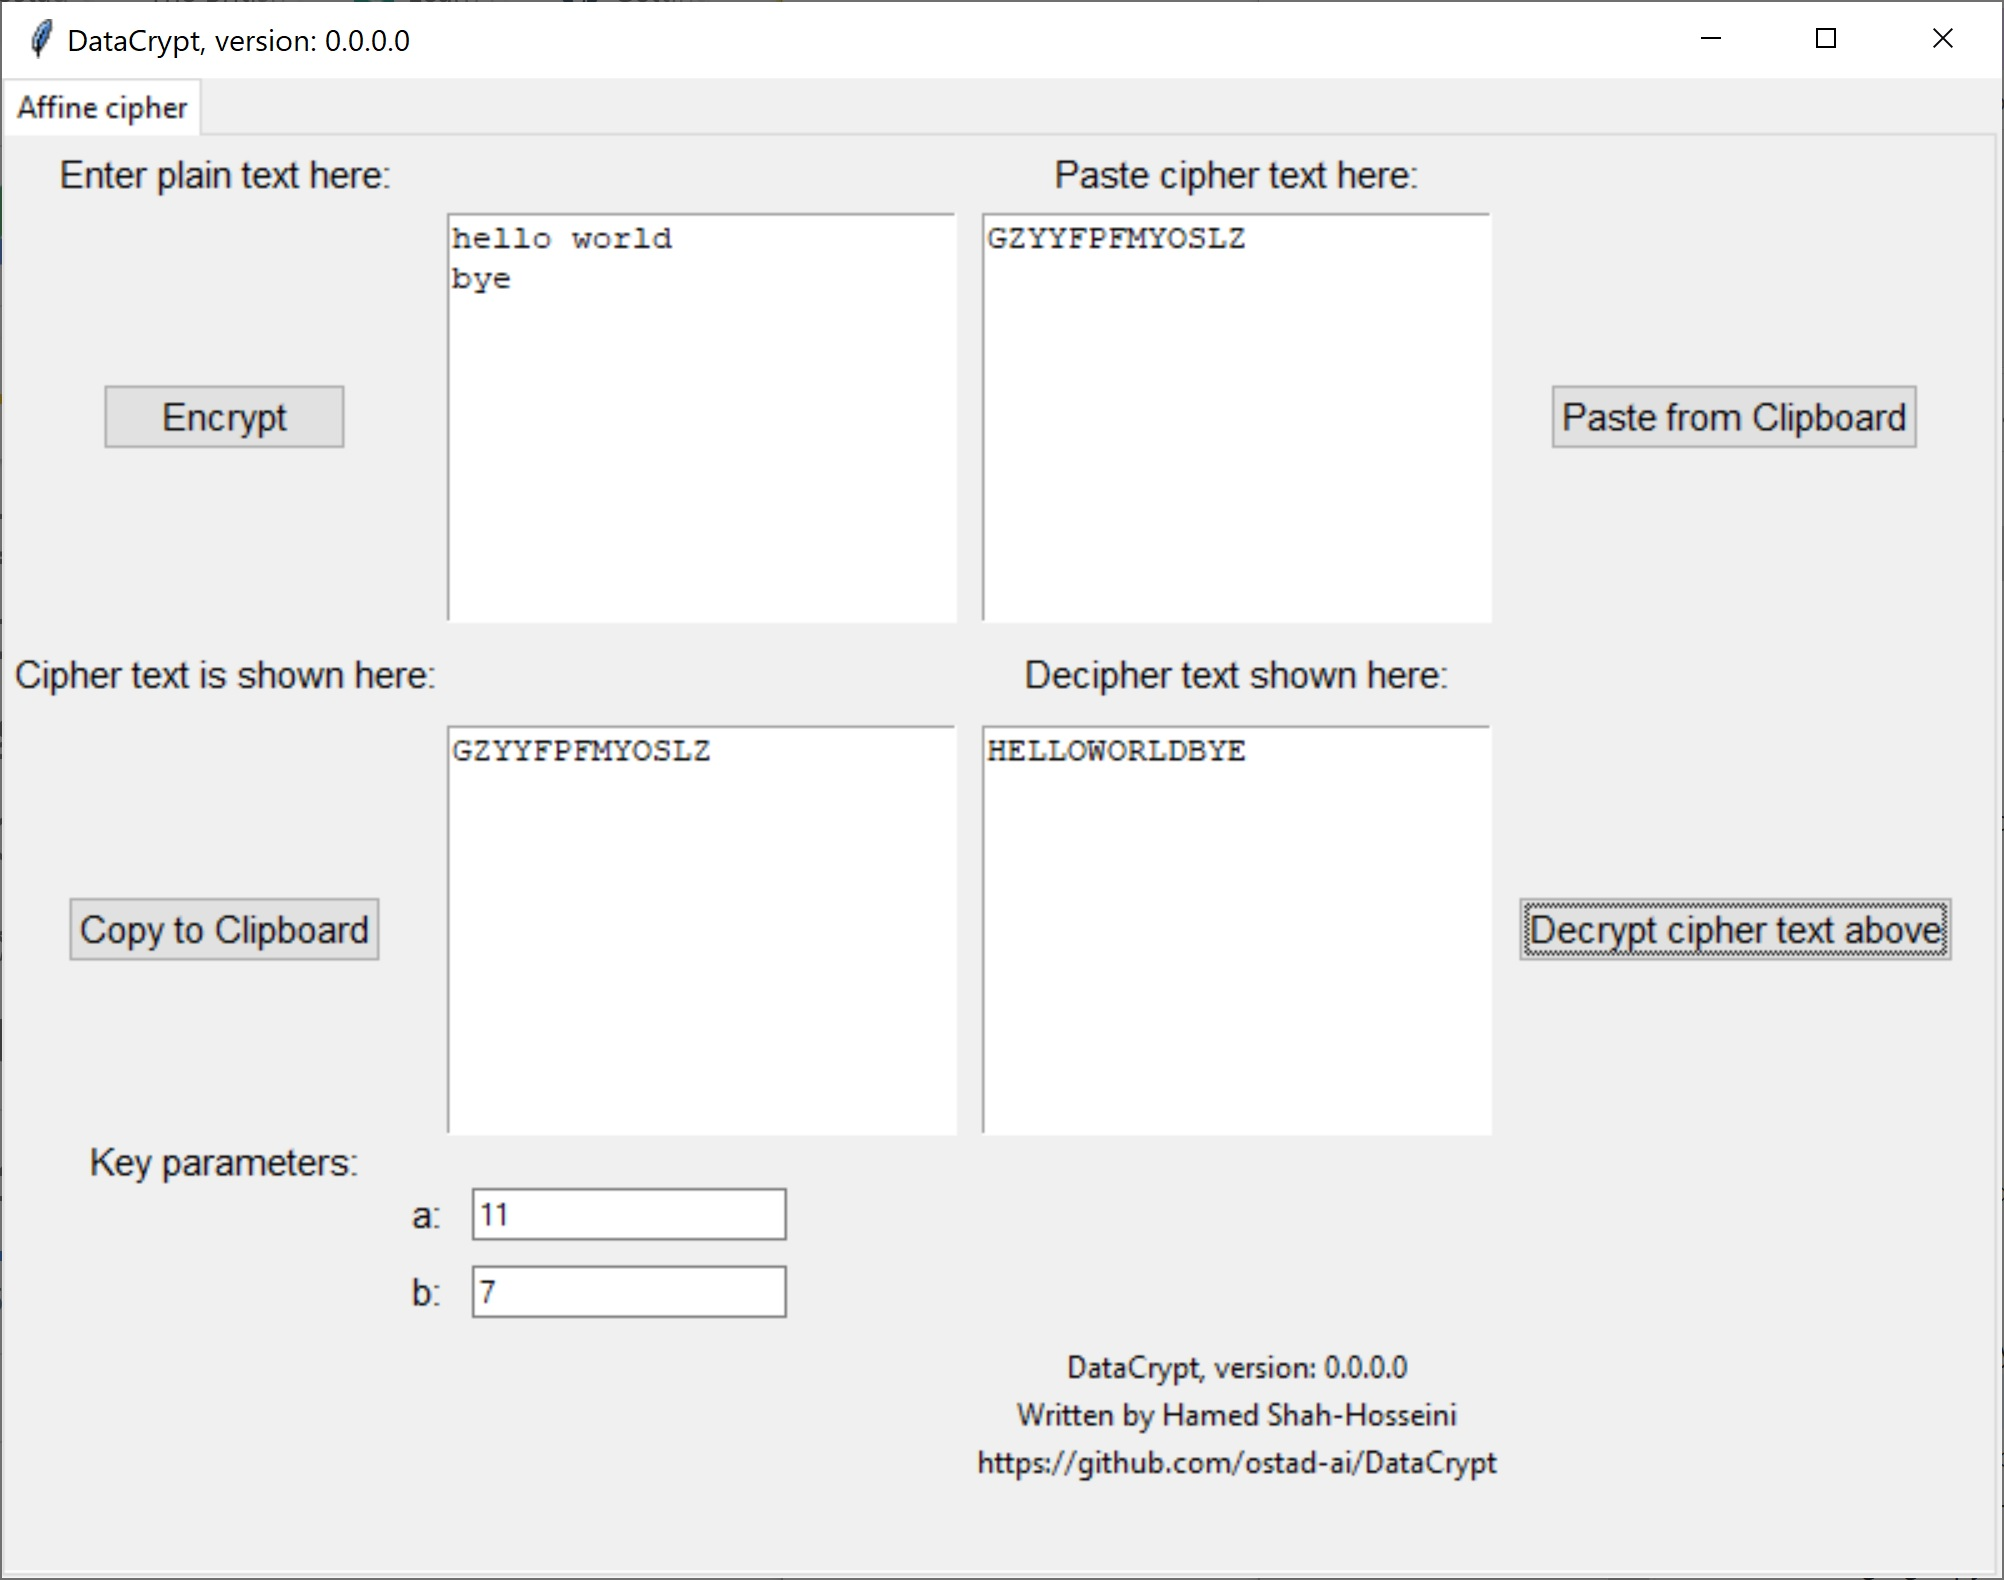
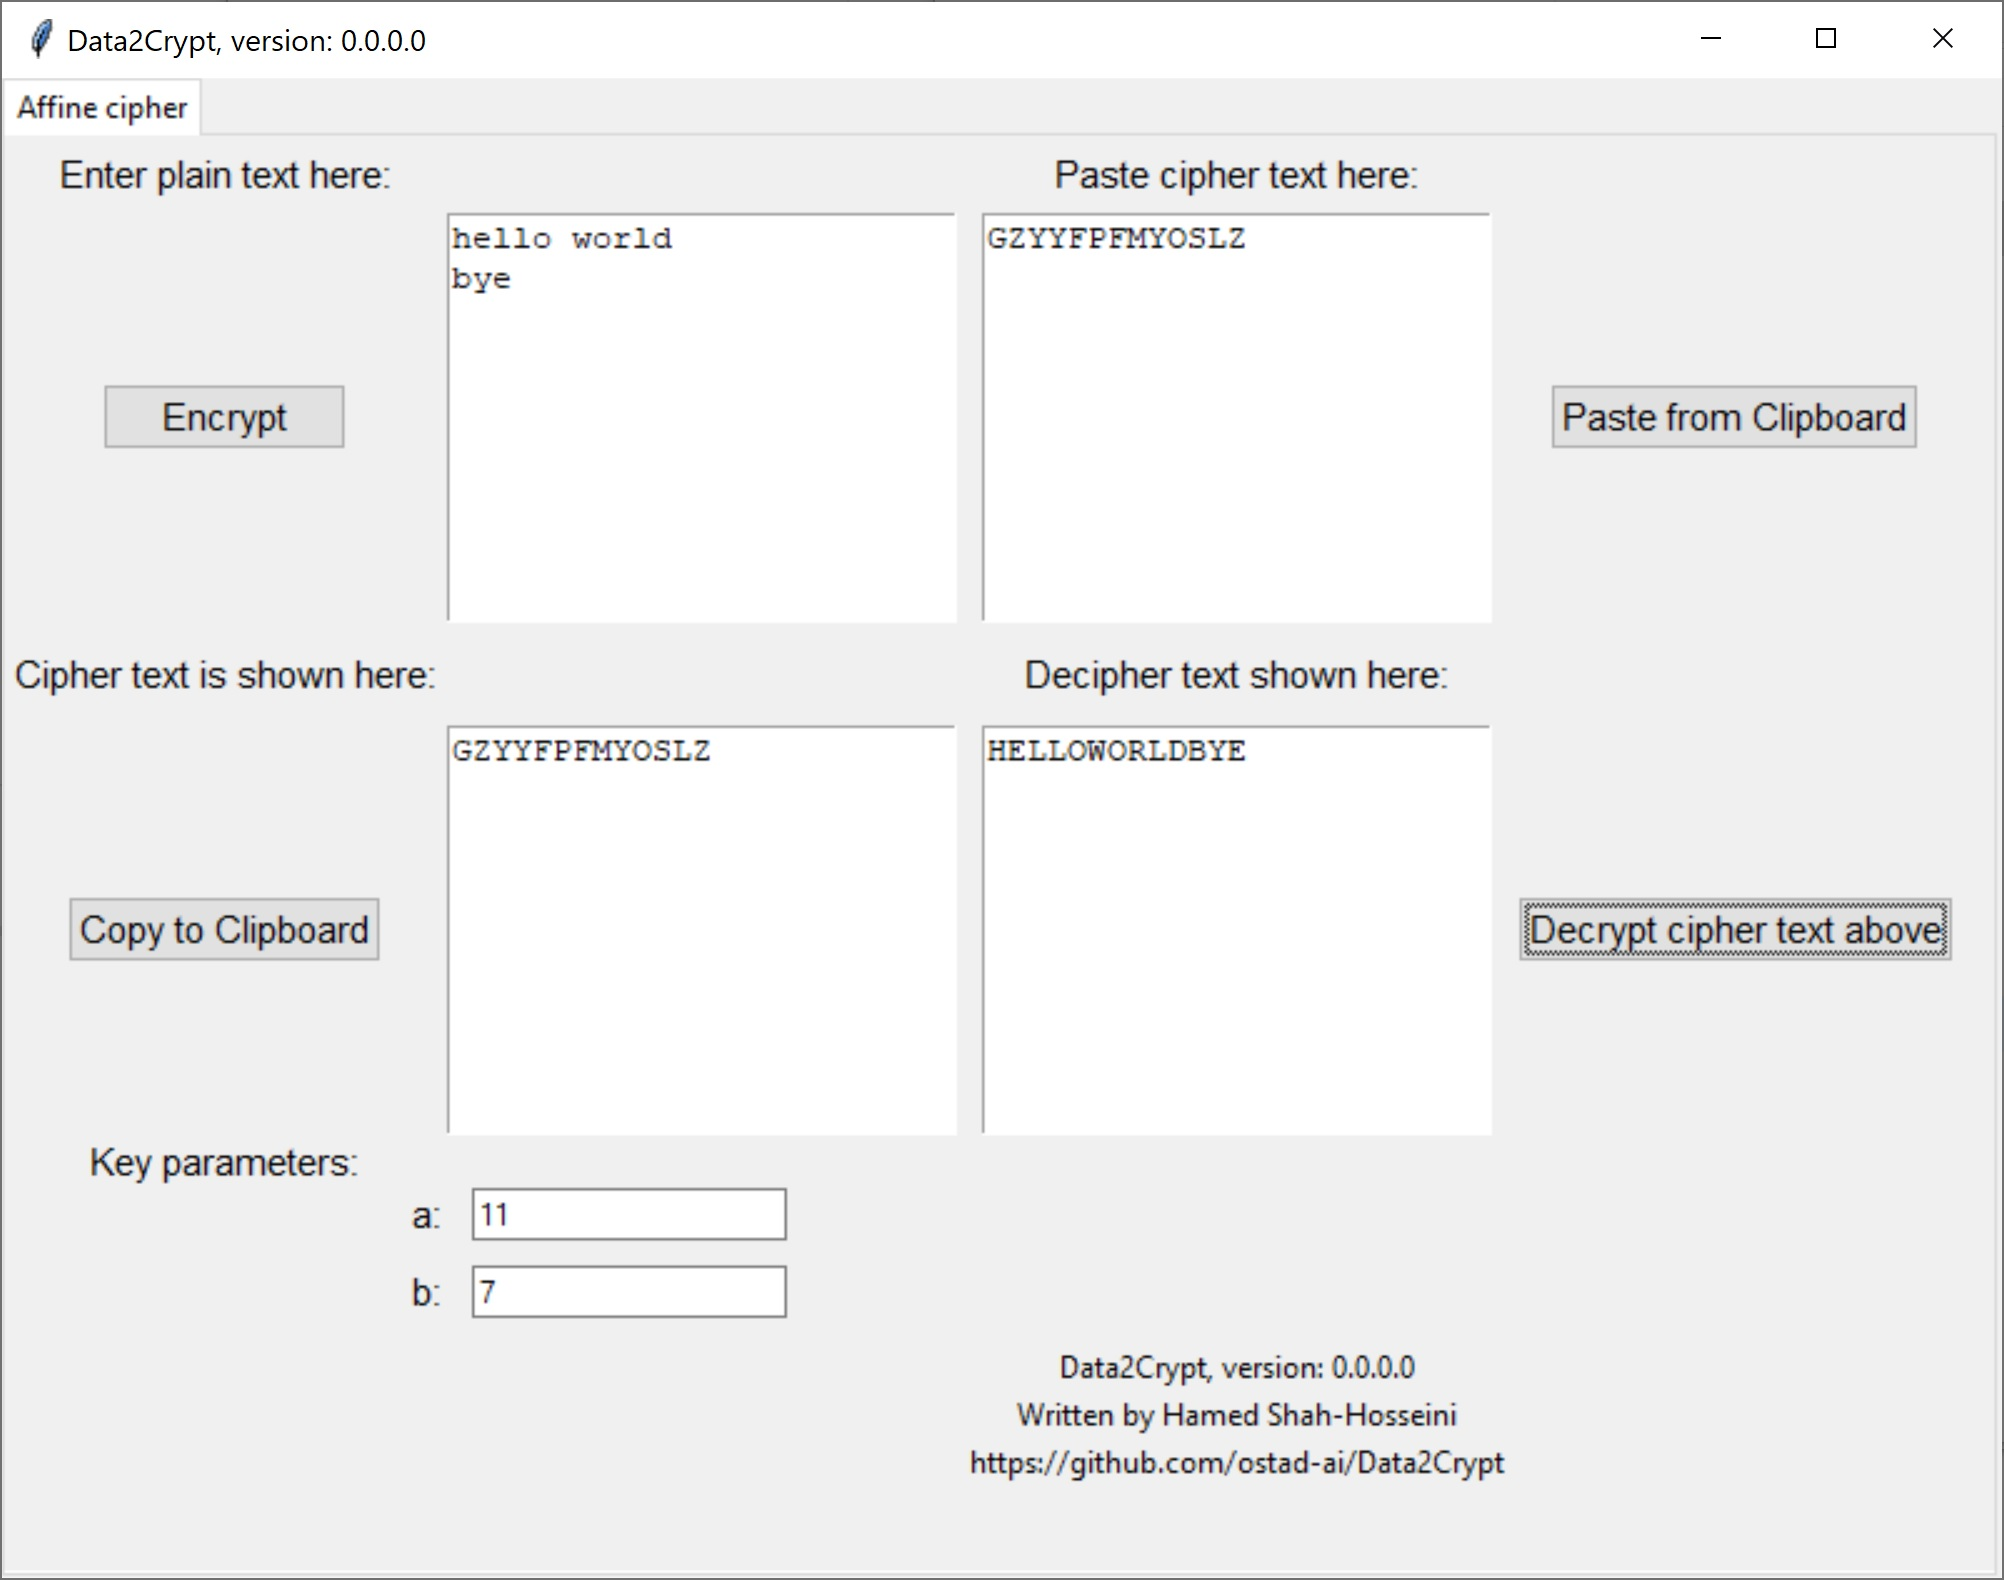
data2crypt, ver: 0.0.0.0

Changed region(s): [[0.4641, 0.8373, 0.7425, 0.9614], [0.0619, 0.0, 0.2166, 0.031]]

diff --git a/README.md b/README.md
@@ -1,8 +1,8 @@
-# DataCrypt
+# Data2Crypt
 ### Version 0.0.0.0
 1. Encryption and decryption by Affine cipher.
-## This archive includes the executable program, datacrypt.exe, which you should clicked on to run.
-[Download the archive for win64](https://drive.google.com/file/d/1u6dZDA27MOFNUSArfJRN8nDwtaW4jYka/view?usp=sharing)
+## This archive includes the executable program, data2crypt.exe, which you should clicked on to run.
+[Download the archive for win64](https://drive.google.com/file/d/1cQCVB3NXoLArSv2CEyr15YcDM073Zac3/view?usp=sharing)
 ---
-![A snapshot of application for Affine cipher](Media/ver-0-0-0-0.jpg) *Figure 1: A snapshot of Affine cipher.*
+![A snapshot of application for Affine cipher](Media/ver-0-0-0-0.jpg) *Figure 1: A snapshot of Data2Crypt for Affine cipher.*
 ---
